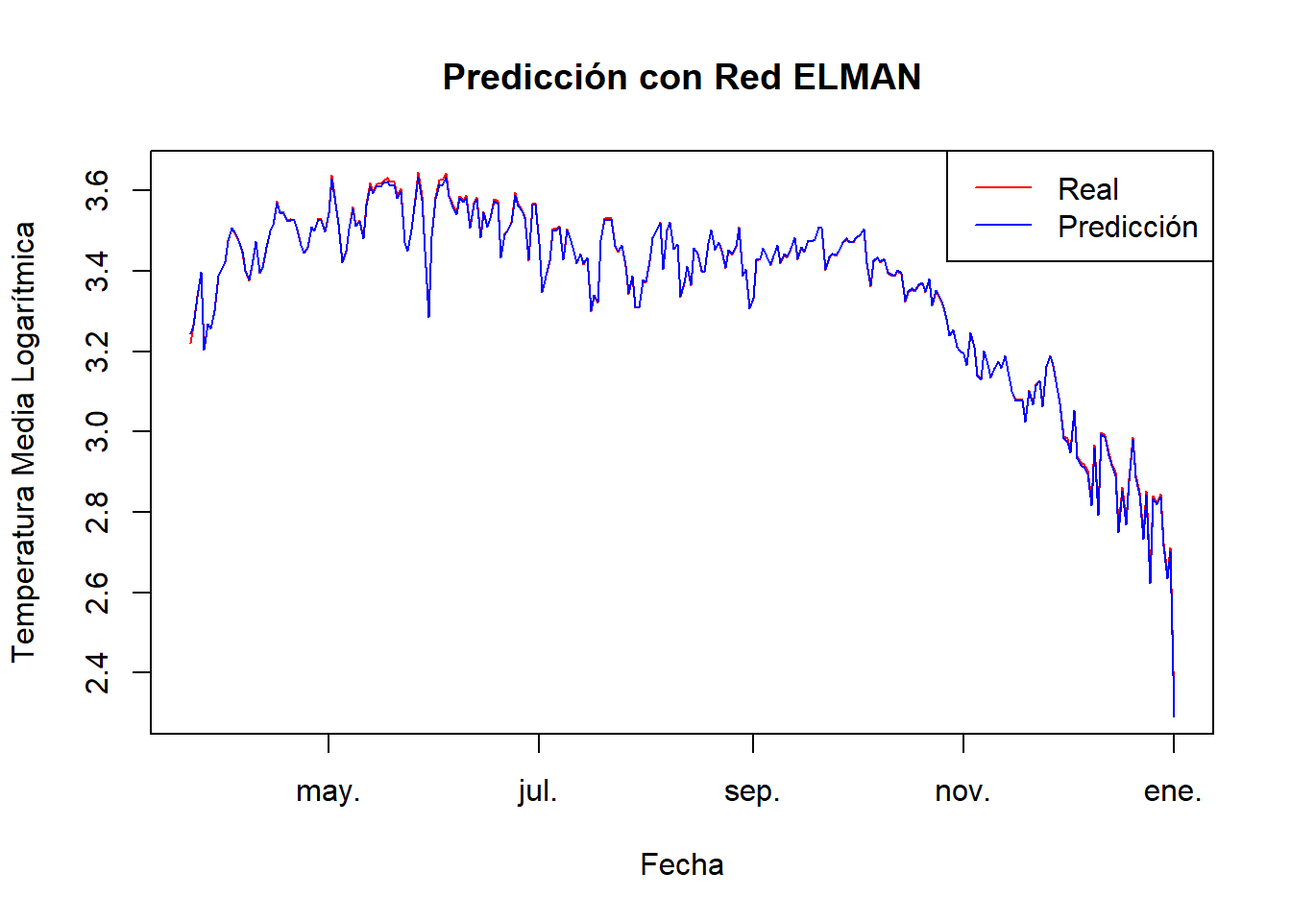
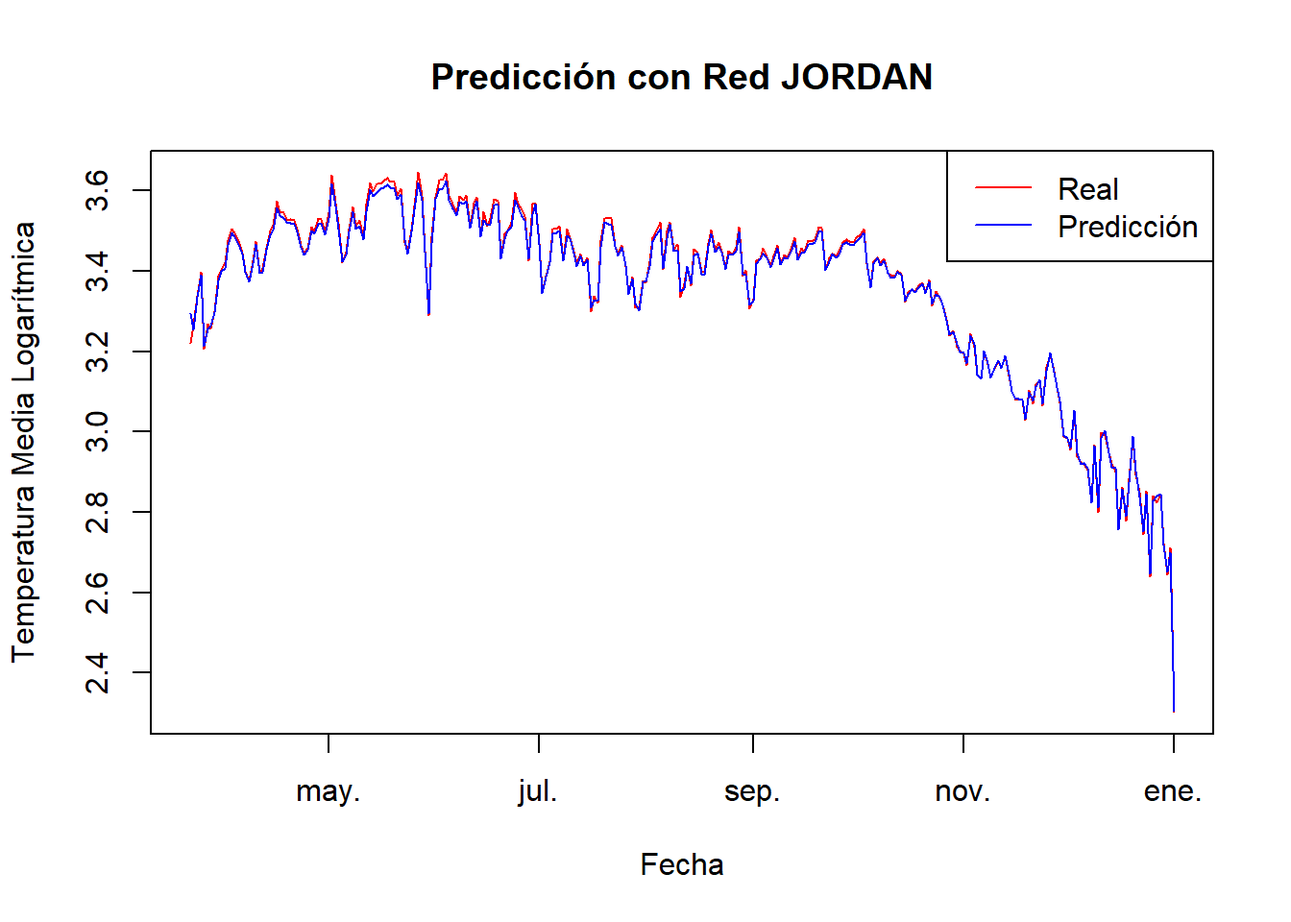
Final Final entrega

diff --git a/modulo-3.html b/modulo-3.html
@@ -178,7 +178,16 @@ code span.wa { color: #60a0b0; font-weight: bold; font-style: italic; } /* Warni
 </ul></li>
 <li class="chapter" data-level="8" data-path="modulo-3.html"><a href="modulo-3.html"><i class="fa fa-check"></i><b>8</b> Modulo 3</a>
 <ul>
-<li class="chapter" data-level="8.1" data-path="modulo-3.html"><a href="modulo-3.html#organización-datos"><i class="fa fa-check"></i><b>8.1</b> Organización datos</a></li>
+<li class="chapter" data-level="8.1" data-path="modulo-3.html"><a href="modulo-3.html#organizar-modelos"><i class="fa fa-check"></i><b>8.1</b> Organizar modelos</a></li>
+<li class="chapter" data-level="8.2" data-path="modulo-3.html"><a href="modulo-3.html#red-neuronal-elman"><i class="fa fa-check"></i><b>8.2</b> Red Neuronal Elman</a>
+<ul>
+<li class="chapter" data-level="8.2.1" data-path="modulo-3.html"><a href="modulo-3.html#análisis-de-los-gráficos-de-la-red-elman"><i class="fa fa-check"></i><b>8.2.1</b> Análisis de los Gráficos de la Red Elman</a></li>
+</ul></li>
+<li class="chapter" data-level="8.3" data-path="modulo-3.html"><a href="modulo-3.html#red-neuronal-jordan"><i class="fa fa-check"></i><b>8.3</b> Red Neuronal Jordan</a>
+<ul>
+<li class="chapter" data-level="8.3.1" data-path="modulo-3.html"><a href="modulo-3.html#análisis-de-los-gráficos-de-la-red-jordan"><i class="fa fa-check"></i><b>8.3.1</b> Análisis de los Gráficos de la Red Jordan</a></li>
+<li class="chapter" data-level="8.3.2" data-path="modulo-3.html"><a href="modulo-3.html#comparación-de-redes-elman-y-jordan"><i class="fa fa-check"></i><b>8.3.2</b> Comparación de Redes Elman y Jordan:</a></li>
+</ul></li>
 </ul></li>
 </ul>
 
@@ -199,8 +208,8 @@ code span.wa { color: #60a0b0; font-weight: bold; font-style: italic; } /* Warni
             <section class="normal" id="section-">
 <div id="modulo-3" class="section level1 hasAnchor" number="8">
 <h1><span class="header-section-number">Chapter 8</span> Modulo 3<a href="modulo-3.html#modulo-3" class="anchor-section" aria-label="Anchor link to header"></a></h1>
-<div id="organización-datos" class="section level2 hasAnchor" number="8.1">
-<h2><span class="header-section-number">8.1</span> Organización datos<a href="modulo-3.html#organización-datos" class="anchor-section" aria-label="Anchor link to header"></a></h2>
+<div id="organizar-modelos" class="section level2 hasAnchor" number="8.1">
+<h2><span class="header-section-number">8.1</span> Organizar modelos<a href="modulo-3.html#organizar-modelos" class="anchor-section" aria-label="Anchor link to header"></a></h2>
 <div class="sourceCode" id="cb78"><pre class="sourceCode r"><code class="sourceCode r"><span id="cb78-1"><a href="modulo-3.html#cb78-1" tabindex="-1"></a><span class="co"># Instalar y cargar librerías necesarias</span></span>
 <span id="cb78-2"><a href="modulo-3.html#cb78-2" tabindex="-1"></a><span class="cf">if</span> (<span class="sc">!</span><span class="fu">require</span>(RSNNS)) <span class="fu">install.packages</span>(<span class="st">&quot;RSNNS&quot;</span>, <span class="at">repos =</span> <span class="st">&quot;http://cran.us.r-project.org&quot;</span>)</span></code></pre></div>
 <pre><code>## Loading required package: RSNNS</code></pre>
@@ -238,59 +247,138 @@ code span.wa { color: #60a0b0; font-weight: bold; font-style: italic; } /* Warni
 <span id="cb81-31"><a href="modulo-3.html#cb81-31" tabindex="-1"></a>n_steps <span class="ot">&lt;-</span> <span class="dv">7</span></span>
 <span id="cb81-32"><a href="modulo-3.html#cb81-32" tabindex="-1"></a>input_train <span class="ot">&lt;-</span> <span class="fu">create_sequences</span>(train_data<span class="sc">$</span>scaled_log_meantemp, n_steps)</span>
 <span id="cb81-33"><a href="modulo-3.html#cb81-33" tabindex="-1"></a>output_train <span class="ot">&lt;-</span> train_data<span class="sc">$</span>scaled_log_meantemp[n_steps<span class="sc">:</span><span class="fu">length</span>(train_data<span class="sc">$</span>scaled_log_meantemp)]</span>
-<span id="cb81-34"><a href="modulo-3.html#cb81-34" tabindex="-1"></a>input_test <span class="ot">&lt;-</span> <span class="fu">create_sequences</span>(test_data<span class="sc">$</span>scaled_log_meantemp, n_steps)</span></code></pre></div>
-<div class="sourceCode" id="cb82"><pre class="sourceCode r"><code class="sourceCode r"><span id="cb82-1"><a href="modulo-3.html#cb82-1" tabindex="-1"></a><span class="co"># Función para entrenar, predecir y evaluar modelos</span></span>
-<span id="cb82-2"><a href="modulo-3.html#cb82-2" tabindex="-1"></a>train_predict_evaluate <span class="ot">&lt;-</span> <span class="cf">function</span>(model_type, input_train, output_train, input_test) {</span>
-<span id="cb82-3"><a href="modulo-3.html#cb82-3" tabindex="-1"></a>  <span class="fu">set.seed</span>(<span class="dv">123</span>)</span>
-<span id="cb82-4"><a href="modulo-3.html#cb82-4" tabindex="-1"></a>  <span class="cf">if</span> (model_type <span class="sc">==</span> <span class="st">&quot;elman&quot;</span>) {</span>
-<span id="cb82-5"><a href="modulo-3.html#cb82-5" tabindex="-1"></a>    model <span class="ot">&lt;-</span> <span class="fu">elman</span>(input_train, output_train, <span class="at">size =</span> <span class="fu">c</span>(<span class="dv">10</span>, <span class="dv">5</span>), <span class="at">learnFuncParams =</span> <span class="fu">c</span>(<span class="fl">0.1</span>), <span class="at">maxit =</span> <span class="dv">1000</span>, <span class="at">linOut =</span> <span class="cn">TRUE</span>)</span>
-<span id="cb82-6"><a href="modulo-3.html#cb82-6" tabindex="-1"></a>  } <span class="cf">else</span> <span class="cf">if</span> (model_type <span class="sc">==</span> <span class="st">&quot;jordan&quot;</span>) {</span>
-<span id="cb82-7"><a href="modulo-3.html#cb82-7" tabindex="-1"></a>    model <span class="ot">&lt;-</span> <span class="fu">jordan</span>(input_train, output_train, <span class="at">size =</span> <span class="dv">4</span>, <span class="at">learnFuncParams =</span> <span class="fu">c</span>(<span class="fl">0.01</span>), <span class="at">maxit =</span> <span class="dv">1000</span>, <span class="at">linOut =</span> <span class="cn">TRUE</span>)</span>
-<span id="cb82-8"><a href="modulo-3.html#cb82-8" tabindex="-1"></a>  }</span>
-<span id="cb82-9"><a href="modulo-3.html#cb82-9" tabindex="-1"></a>  </span>
-<span id="cb82-10"><a href="modulo-3.html#cb82-10" tabindex="-1"></a>  <span class="co"># Gráfico de convergencia del error</span></span>
-<span id="cb82-11"><a href="modulo-3.html#cb82-11" tabindex="-1"></a>  <span class="fu">plotIterativeError</span>(model)</span>
-<span id="cb82-12"><a href="modulo-3.html#cb82-12" tabindex="-1"></a>  </span>
-<span id="cb82-13"><a href="modulo-3.html#cb82-13" tabindex="-1"></a>  predictions <span class="ot">&lt;-</span> <span class="fu">predict</span>(model, input_test)</span>
-<span id="cb82-14"><a href="modulo-3.html#cb82-14" tabindex="-1"></a>  predictions <span class="ot">&lt;-</span> predictions <span class="sc">*</span> (max_value <span class="sc">-</span> min_value) <span class="sc">+</span> min_value</span>
-<span id="cb82-15"><a href="modulo-3.html#cb82-15" tabindex="-1"></a>  actual_values <span class="ot">&lt;-</span> test_data<span class="sc">$</span>log_meantemp[n_steps<span class="sc">:</span><span class="fu">length</span>(test_data<span class="sc">$</span>log_meantemp)]</span>
-<span id="cb82-16"><a href="modulo-3.html#cb82-16" tabindex="-1"></a>  </span>
-<span id="cb82-17"><a href="modulo-3.html#cb82-17" tabindex="-1"></a>  rmse <span class="ot">&lt;-</span> <span class="fu">sqrt</span>(<span class="fu">mean</span>((predictions <span class="sc">-</span> actual_values)<span class="sc">^</span><span class="dv">2</span>))</span>
-<span id="cb82-18"><a href="modulo-3.html#cb82-18" tabindex="-1"></a>  mae <span class="ot">&lt;-</span> <span class="fu">mean</span>(<span class="fu">abs</span>(predictions <span class="sc">-</span> actual_values))</span>
-<span id="cb82-19"><a href="modulo-3.html#cb82-19" tabindex="-1"></a>  mape <span class="ot">&lt;-</span> <span class="fu">mean</span>(<span class="fu">abs</span>((predictions <span class="sc">-</span> actual_values) <span class="sc">/</span> actual_values)) <span class="sc">*</span> <span class="dv">100</span></span>
-<span id="cb82-20"><a href="modulo-3.html#cb82-20" tabindex="-1"></a>  </span>
-<span id="cb82-21"><a href="modulo-3.html#cb82-21" tabindex="-1"></a>  <span class="fu">cat</span>(<span class="fu">toupper</span>(model_type), <span class="st">&quot;RMSE:&quot;</span>, rmse, <span class="st">&quot;</span><span class="sc">\n</span><span class="st">&quot;</span>)</span>
-<span id="cb82-22"><a href="modulo-3.html#cb82-22" tabindex="-1"></a>  <span class="fu">cat</span>(<span class="fu">toupper</span>(model_type), <span class="st">&quot;MAE:&quot;</span>, mae, <span class="st">&quot;</span><span class="sc">\n</span><span class="st">&quot;</span>)</span>
-<span id="cb82-23"><a href="modulo-3.html#cb82-23" tabindex="-1"></a>  <span class="fu">cat</span>(<span class="fu">toupper</span>(model_type), <span class="st">&quot;MAPE:&quot;</span>, mape, <span class="st">&quot;%</span><span class="sc">\n</span><span class="st">&quot;</span>)</span>
-<span id="cb82-24"><a href="modulo-3.html#cb82-24" tabindex="-1"></a>  </span>
-<span id="cb82-25"><a href="modulo-3.html#cb82-25" tabindex="-1"></a>  <span class="co"># Visualizar resultados</span></span>
-<span id="cb82-26"><a href="modulo-3.html#cb82-26" tabindex="-1"></a>  <span class="fu">plot</span>(test_data<span class="sc">$</span>date[n_steps<span class="sc">:</span><span class="fu">length</span>(test_data<span class="sc">$</span>date)], actual_values, <span class="at">type =</span> <span class="st">&quot;l&quot;</span>, <span class="at">col =</span> <span class="st">&quot;red&quot;</span>, </span>
-<span id="cb82-27"><a href="modulo-3.html#cb82-27" tabindex="-1"></a>       <span class="at">main =</span> <span class="fu">paste</span>(<span class="st">&quot;Predicción con Red&quot;</span>, <span class="fu">toupper</span>(model_type)), <span class="at">xlab =</span> <span class="st">&quot;Fecha&quot;</span>, <span class="at">ylab =</span> <span class="st">&quot;Temperatura Media Logarítmica&quot;</span>)</span>
-<span id="cb82-28"><a href="modulo-3.html#cb82-28" tabindex="-1"></a>  <span class="fu">lines</span>(test_data<span class="sc">$</span>date[n_steps<span class="sc">:</span><span class="fu">length</span>(test_data<span class="sc">$</span>date)], predictions, <span class="at">col =</span> <span class="st">&quot;blue&quot;</span>)</span>
-<span id="cb82-29"><a href="modulo-3.html#cb82-29" tabindex="-1"></a>  <span class="fu">legend</span>(<span class="st">&quot;topright&quot;</span>, <span class="at">legend =</span> <span class="fu">c</span>(<span class="st">&quot;Real&quot;</span>, <span class="st">&quot;Predicción&quot;</span>), <span class="at">col =</span> <span class="fu">c</span>(<span class="st">&quot;red&quot;</span>, <span class="st">&quot;blue&quot;</span>), <span class="at">lty =</span> <span class="dv">1</span>)</span>
-<span id="cb82-30"><a href="modulo-3.html#cb82-30" tabindex="-1"></a>  </span>
-<span id="cb82-31"><a href="modulo-3.html#cb82-31" tabindex="-1"></a>  <span class="co"># Gráfico de errores</span></span>
-<span id="cb82-32"><a href="modulo-3.html#cb82-32" tabindex="-1"></a>  errors <span class="ot">&lt;-</span> predictions <span class="sc">-</span> actual_values</span>
-<span id="cb82-33"><a href="modulo-3.html#cb82-33" tabindex="-1"></a>  <span class="fu">plot</span>(test_data<span class="sc">$</span>date[n_steps<span class="sc">:</span><span class="fu">length</span>(test_data<span class="sc">$</span>date)], errors, <span class="at">type =</span> <span class="st">&quot;l&quot;</span>, </span>
-<span id="cb82-34"><a href="modulo-3.html#cb82-34" tabindex="-1"></a>       <span class="at">main =</span> <span class="fu">paste</span>(<span class="st">&quot;Errores de predicción -&quot;</span>, <span class="fu">toupper</span>(model_type)), <span class="at">xlab =</span> <span class="st">&quot;Fecha&quot;</span>, <span class="at">ylab =</span> <span class="st">&quot;Error&quot;</span>)</span>
-<span id="cb82-35"><a href="modulo-3.html#cb82-35" tabindex="-1"></a>  <span class="fu">abline</span>(<span class="at">h =</span> <span class="dv">0</span>, <span class="at">col =</span> <span class="st">&quot;red&quot;</span>, <span class="at">lty =</span> <span class="dv">2</span>)</span>
-<span id="cb82-36"><a href="modulo-3.html#cb82-36" tabindex="-1"></a>  </span>
-<span id="cb82-37"><a href="modulo-3.html#cb82-37" tabindex="-1"></a>  <span class="fu">return</span>(model)</span>
-<span id="cb82-38"><a href="modulo-3.html#cb82-38" tabindex="-1"></a>}</span></code></pre></div>
-<p>RESUL</p>
-<div class="sourceCode" id="cb83"><pre class="sourceCode r"><code class="sourceCode r"><span id="cb83-1"><a href="modulo-3.html#cb83-1" tabindex="-1"></a><span class="co"># Ejecutar modelos</span></span>
-<span id="cb83-2"><a href="modulo-3.html#cb83-2" tabindex="-1"></a>elman_model <span class="ot">&lt;-</span> <span class="fu">train_predict_evaluate</span>(<span class="st">&quot;elman&quot;</span>, input_train, output_train, input_test)</span></code></pre></div>
-<p><img src="index_files/figure-html/unnamed-chunk-45-1.png" width="672" /></p>
+<span id="cb81-34"><a href="modulo-3.html#cb81-34" tabindex="-1"></a>input_test <span class="ot">&lt;-</span> <span class="fu">create_sequences</span>(test_data<span class="sc">$</span>scaled_log_meantemp, n_steps)</span>
+<span id="cb81-35"><a href="modulo-3.html#cb81-35" tabindex="-1"></a></span>
+<span id="cb81-36"><a href="modulo-3.html#cb81-36" tabindex="-1"></a><span class="co"># Función para entrenar, predecir y evaluar modelos</span></span>
+<span id="cb81-37"><a href="modulo-3.html#cb81-37" tabindex="-1"></a>train_predict_evaluate <span class="ot">&lt;-</span> <span class="cf">function</span>(model_type, input_train, output_train, input_test) {</span>
+<span id="cb81-38"><a href="modulo-3.html#cb81-38" tabindex="-1"></a>  <span class="fu">set.seed</span>(<span class="dv">123</span>)</span>
+<span id="cb81-39"><a href="modulo-3.html#cb81-39" tabindex="-1"></a>  <span class="cf">if</span> (model_type <span class="sc">==</span> <span class="st">&quot;elman&quot;</span>) {</span>
+<span id="cb81-40"><a href="modulo-3.html#cb81-40" tabindex="-1"></a>    model <span class="ot">&lt;-</span> <span class="fu">elman</span>(input_train, output_train, <span class="at">size =</span> <span class="fu">c</span>(<span class="dv">10</span>, <span class="dv">5</span>), <span class="at">learnFuncParams =</span> <span class="fu">c</span>(<span class="fl">0.1</span>), <span class="at">maxit =</span> <span class="dv">1000</span>, <span class="at">linOut =</span> <span class="cn">TRUE</span>)</span>
+<span id="cb81-41"><a href="modulo-3.html#cb81-41" tabindex="-1"></a>  } <span class="cf">else</span> <span class="cf">if</span> (model_type <span class="sc">==</span> <span class="st">&quot;jordan&quot;</span>) {</span>
+<span id="cb81-42"><a href="modulo-3.html#cb81-42" tabindex="-1"></a>    model <span class="ot">&lt;-</span> <span class="fu">jordan</span>(input_train, output_train, <span class="at">size =</span> <span class="dv">4</span>, <span class="at">learnFuncParams =</span> <span class="fu">c</span>(<span class="fl">0.01</span>), <span class="at">maxit =</span> <span class="dv">1000</span>, <span class="at">linOut =</span> <span class="cn">TRUE</span>)</span>
+<span id="cb81-43"><a href="modulo-3.html#cb81-43" tabindex="-1"></a>  }</span>
+<span id="cb81-44"><a href="modulo-3.html#cb81-44" tabindex="-1"></a>  </span>
+<span id="cb81-45"><a href="modulo-3.html#cb81-45" tabindex="-1"></a>  <span class="co"># Gráfico de convergencia del error</span></span>
+<span id="cb81-46"><a href="modulo-3.html#cb81-46" tabindex="-1"></a>  <span class="fu">plotIterativeError</span>(model)</span>
+<span id="cb81-47"><a href="modulo-3.html#cb81-47" tabindex="-1"></a>  </span>
+<span id="cb81-48"><a href="modulo-3.html#cb81-48" tabindex="-1"></a>  predictions <span class="ot">&lt;-</span> <span class="fu">predict</span>(model, input_test)</span>
+<span id="cb81-49"><a href="modulo-3.html#cb81-49" tabindex="-1"></a>  predictions <span class="ot">&lt;-</span> predictions <span class="sc">*</span> (max_value <span class="sc">-</span> min_value) <span class="sc">+</span> min_value</span>
+<span id="cb81-50"><a href="modulo-3.html#cb81-50" tabindex="-1"></a>  actual_values <span class="ot">&lt;-</span> test_data<span class="sc">$</span>log_meantemp[n_steps<span class="sc">:</span><span class="fu">length</span>(test_data<span class="sc">$</span>log_meantemp)]</span>
+<span id="cb81-51"><a href="modulo-3.html#cb81-51" tabindex="-1"></a>  </span>
+<span id="cb81-52"><a href="modulo-3.html#cb81-52" tabindex="-1"></a>  rmse <span class="ot">&lt;-</span> <span class="fu">sqrt</span>(<span class="fu">mean</span>((predictions <span class="sc">-</span> actual_values)<span class="sc">^</span><span class="dv">2</span>))</span>
+<span id="cb81-53"><a href="modulo-3.html#cb81-53" tabindex="-1"></a>  mae <span class="ot">&lt;-</span> <span class="fu">mean</span>(<span class="fu">abs</span>(predictions <span class="sc">-</span> actual_values))</span>
+<span id="cb81-54"><a href="modulo-3.html#cb81-54" tabindex="-1"></a>  mape <span class="ot">&lt;-</span> <span class="fu">mean</span>(<span class="fu">abs</span>((predictions <span class="sc">-</span> actual_values) <span class="sc">/</span> actual_values)) <span class="sc">*</span> <span class="dv">100</span></span>
+<span id="cb81-55"><a href="modulo-3.html#cb81-55" tabindex="-1"></a>  </span>
+<span id="cb81-56"><a href="modulo-3.html#cb81-56" tabindex="-1"></a>  <span class="fu">cat</span>(<span class="fu">toupper</span>(model_type), <span class="st">&quot;RMSE:&quot;</span>, rmse, <span class="st">&quot;</span><span class="sc">\n</span><span class="st">&quot;</span>)</span>
+<span id="cb81-57"><a href="modulo-3.html#cb81-57" tabindex="-1"></a>  <span class="fu">cat</span>(<span class="fu">toupper</span>(model_type), <span class="st">&quot;MAE:&quot;</span>, mae, <span class="st">&quot;</span><span class="sc">\n</span><span class="st">&quot;</span>)</span>
+<span id="cb81-58"><a href="modulo-3.html#cb81-58" tabindex="-1"></a>  <span class="fu">cat</span>(<span class="fu">toupper</span>(model_type), <span class="st">&quot;MAPE:&quot;</span>, mape, <span class="st">&quot;%</span><span class="sc">\n</span><span class="st">&quot;</span>)</span>
+<span id="cb81-59"><a href="modulo-3.html#cb81-59" tabindex="-1"></a>  </span>
+<span id="cb81-60"><a href="modulo-3.html#cb81-60" tabindex="-1"></a>  <span class="co"># Visualizar resultados</span></span>
+<span id="cb81-61"><a href="modulo-3.html#cb81-61" tabindex="-1"></a>  <span class="fu">plot</span>(test_data<span class="sc">$</span>date[n_steps<span class="sc">:</span><span class="fu">length</span>(test_data<span class="sc">$</span>date)], actual_values, <span class="at">type =</span> <span class="st">&quot;l&quot;</span>, <span class="at">col =</span> <span class="st">&quot;red&quot;</span>, </span>
+<span id="cb81-62"><a href="modulo-3.html#cb81-62" tabindex="-1"></a>       <span class="at">main =</span> <span class="fu">paste</span>(<span class="st">&quot;Predicción con Red&quot;</span>, <span class="fu">toupper</span>(model_type)), <span class="at">xlab =</span> <span class="st">&quot;Fecha&quot;</span>, <span class="at">ylab =</span> <span class="st">&quot;Temperatura Media Logarítmica&quot;</span>)</span>
+<span id="cb81-63"><a href="modulo-3.html#cb81-63" tabindex="-1"></a>  <span class="fu">lines</span>(test_data<span class="sc">$</span>date[n_steps<span class="sc">:</span><span class="fu">length</span>(test_data<span class="sc">$</span>date)], predictions, <span class="at">col =</span> <span class="st">&quot;blue&quot;</span>)</span>
+<span id="cb81-64"><a href="modulo-3.html#cb81-64" tabindex="-1"></a>  <span class="fu">legend</span>(<span class="st">&quot;topright&quot;</span>, <span class="at">legend =</span> <span class="fu">c</span>(<span class="st">&quot;Real&quot;</span>, <span class="st">&quot;Predicción&quot;</span>), <span class="at">col =</span> <span class="fu">c</span>(<span class="st">&quot;red&quot;</span>, <span class="st">&quot;blue&quot;</span>), <span class="at">lty =</span> <span class="dv">1</span>)</span>
+<span id="cb81-65"><a href="modulo-3.html#cb81-65" tabindex="-1"></a>  </span>
+<span id="cb81-66"><a href="modulo-3.html#cb81-66" tabindex="-1"></a>  <span class="co"># Gráfico de errores</span></span>
+<span id="cb81-67"><a href="modulo-3.html#cb81-67" tabindex="-1"></a>  errors <span class="ot">&lt;-</span> predictions <span class="sc">-</span> actual_values</span>
+<span id="cb81-68"><a href="modulo-3.html#cb81-68" tabindex="-1"></a>  <span class="fu">plot</span>(test_data<span class="sc">$</span>date[n_steps<span class="sc">:</span><span class="fu">length</span>(test_data<span class="sc">$</span>date)], errors, <span class="at">type =</span> <span class="st">&quot;l&quot;</span>, </span>
+<span id="cb81-69"><a href="modulo-3.html#cb81-69" tabindex="-1"></a>       <span class="at">main =</span> <span class="fu">paste</span>(<span class="st">&quot;Errores de predicción -&quot;</span>, <span class="fu">toupper</span>(model_type)), <span class="at">xlab =</span> <span class="st">&quot;Fecha&quot;</span>, <span class="at">ylab =</span> <span class="st">&quot;Error&quot;</span>)</span>
+<span id="cb81-70"><a href="modulo-3.html#cb81-70" tabindex="-1"></a>  <span class="fu">abline</span>(<span class="at">h =</span> <span class="dv">0</span>, <span class="at">col =</span> <span class="st">&quot;red&quot;</span>, <span class="at">lty =</span> <span class="dv">2</span>)</span>
+<span id="cb81-71"><a href="modulo-3.html#cb81-71" tabindex="-1"></a>  </span>
+<span id="cb81-72"><a href="modulo-3.html#cb81-72" tabindex="-1"></a>  <span class="fu">return</span>(model)</span>
+<span id="cb81-73"><a href="modulo-3.html#cb81-73" tabindex="-1"></a>}</span></code></pre></div>
+</div>
+<div id="red-neuronal-elman" class="section level2 hasAnchor" number="8.2">
+<h2><span class="header-section-number">8.2</span> Red Neuronal Elman<a href="modulo-3.html#red-neuronal-elman" class="anchor-section" aria-label="Anchor link to header"></a></h2>
+<div class="sourceCode" id="cb82"><pre class="sourceCode r"><code class="sourceCode r"><span id="cb82-1"><a href="modulo-3.html#cb82-1" tabindex="-1"></a>elman_model <span class="ot">&lt;-</span> <span class="fu">train_predict_evaluate</span>(<span class="st">&quot;elman&quot;</span>, input_train, output_train, input_test)</span></code></pre></div>
+<p><img src="index_files/figure-html/unnamed-chunk-44-1.png" width="672" /></p>
 <pre><code>## ELMAN RMSE: 0.004209174 
 ## ELMAN MAE: 0.00288991 
 ## ELMAN MAPE: 0.08955447 %</code></pre>
-<p><img src="index_files/figure-html/unnamed-chunk-45-2.png" width="672" /><img src="index_files/figure-html/unnamed-chunk-45-3.png" width="672" /></p>
-<div class="sourceCode" id="cb85"><pre class="sourceCode r"><code class="sourceCode r"><span id="cb85-1"><a href="modulo-3.html#cb85-1" tabindex="-1"></a>jordan_model <span class="ot">&lt;-</span> <span class="fu">train_predict_evaluate</span>(<span class="st">&quot;jordan&quot;</span>, input_train, output_train, input_test)</span></code></pre></div>
-<p><img src="index_files/figure-html/unnamed-chunk-45-4.png" width="672" /></p>
+<p><img src="index_files/figure-html/unnamed-chunk-44-2.png" width="672" /><img src="index_files/figure-html/unnamed-chunk-44-3.png" width="672" /></p>
+<div id="análisis-de-los-gráficos-de-la-red-elman" class="section level3 hasAnchor" number="8.2.1">
+<h3><span class="header-section-number">8.2.1</span> Análisis de los Gráficos de la Red Elman<a href="modulo-3.html#análisis-de-los-gráficos-de-la-red-elman" class="anchor-section" aria-label="Anchor link to header"></a></h3>
+<ul>
+<li><strong>Gráfico del Error Ponderado (SSE) a lo Largo de las Iteraciones:</strong></li>
+</ul>
+<p><strong>Descripción:</strong>
+Este gráfico muestra cómo se reduce el error ponderado (SSE, Sum of Squared Errors) durante las iteraciones de entrenamiento de la red Elman.</p>
+<p><strong>Observaciones:</strong>
+El error decrece rápidamente en las primeras iteraciones, lo que indica un aprendizaje rápido inicial.
+A partir de aproximadamente la iteración 200, la reducción del error se estabiliza, sugiriendo que el modelo ha alcanzado una convergencia.
+El gráfico muestra que la red Elman es capaz de minimizar el error de manera efectiva durante el entrenamiento.</p>
+<ul>
+<li><strong>Gráfico de Predicción con Red Elman:</strong></li>
+</ul>
+<p><strong>Descripción:</strong>
+Este gráfico compara las predicciones de la red Elman (línea azul) con los valores reales de la temperatura media logarítmica (línea roja) durante el período de prueba.</p>
+<p><strong>Observaciones:</strong>
+La red Elman sigue de cerca los valores reales, capturando adecuadamente la tendencia y la estacionalidad de los datos.
+Hay ligeras desviaciones en algunos picos y valles, pero en general, el ajuste es bastante preciso.
+La capacidad de la red Elman para capturar la dinámica temporal es evidente en la similitud entre las líneas de predicción y los valores reales.</p>
+<ul>
+<li><strong>Gráfico de Errores de Predicción - Elman:</strong></li>
+</ul>
+<p><strong>Descripción:</strong>
+Este gráfico muestra los errores de predicción (diferencia entre las predicciones y los valores reales) a lo largo del período de prueba.</p>
+<p><strong>Observaciones:</strong>
+Los errores se distribuyen alrededor de cero, lo que indica que no hay un sesgo sistemático en las predicciones.
+Los mayores errores se observan al principio del período de prueba, con una tendencia a estabilizarse en torno a cero conforme avanza el tiempo.
+La línea roja discontinua en el cero ayuda a visualizar la distribución de los errores, mostrando que los errores positivos y negativos se compensan entre sí.</p>
+</div>
+</div>
+<div id="red-neuronal-jordan" class="section level2 hasAnchor" number="8.3">
+<h2><span class="header-section-number">8.3</span> Red Neuronal Jordan<a href="modulo-3.html#red-neuronal-jordan" class="anchor-section" aria-label="Anchor link to header"></a></h2>
+<div class="sourceCode" id="cb84"><pre class="sourceCode r"><code class="sourceCode r"><span id="cb84-1"><a href="modulo-3.html#cb84-1" tabindex="-1"></a>jordan_model <span class="ot">&lt;-</span> <span class="fu">train_predict_evaluate</span>(<span class="st">&quot;jordan&quot;</span>, input_train, output_train, input_test)</span></code></pre></div>
+<p><img src="index_files/figure-html/unnamed-chunk-45-1.png" width="672" /></p>
 <pre><code>## JORDAN RMSE: 0.01002777 
 ## JORDAN MAE: 0.007558923 
 ## JORDAN MAPE: 0.2231786 %</code></pre>
-<p><img src="index_files/figure-html/unnamed-chunk-45-5.png" width="672" /><img src="index_files/figure-html/unnamed-chunk-45-6.png" width="672" /></p>
+<p><img src="index_files/figure-html/unnamed-chunk-45-2.png" width="672" /><img src="index_files/figure-html/unnamed-chunk-45-3.png" width="672" /></p>
+<div id="análisis-de-los-gráficos-de-la-red-jordan" class="section level3 hasAnchor" number="8.3.1">
+<h3><span class="header-section-number">8.3.1</span> Análisis de los Gráficos de la Red Jordan<a href="modulo-3.html#análisis-de-los-gráficos-de-la-red-jordan" class="anchor-section" aria-label="Anchor link to header"></a></h3>
+<ul>
+<li><strong>Gráfico del Error Ponderado (SSE) a lo Largo de las Iteraciones:</strong></li>
+</ul>
+<p><strong>Descripción:</strong>
+Similar al gráfico de la red Elman, este gráfico muestra cómo se reduce el error ponderado durante las iteraciones de entrenamiento de la red Jordan.</p>
+<p><strong>Observaciones:</strong>
+El error decrece rápidamente en las primeras iteraciones, indicando un buen proceso de aprendizaje inicial.
+La estabilización del error alrededor de la iteración 200 sugiere que el modelo ha alcanzado la convergencia.
+El modelo es eficaz en minimizar el error durante el entrenamiento, similar a la red Elman.</p>
+<ul>
+<li><strong>Gráfico de Predicción con Red Jordan:</strong></li>
+</ul>
+<p><strong>Descripción:</strong>
+Este gráfico compara las predicciones de la red Jordan (línea azul) con los valores reales de la temperatura media logarítmica (línea roja) durante el período de prueba.</p>
+<p><strong>Observaciones:</strong>
+La red Jordan también sigue de cerca los valores reales, capturando la tendencia y la estacionalidad.
+Las desviaciones en picos y valles son mínimas, mostrando una precisión comparativa a la red Elman.
+La red Jordan es igualmente competente en capturar la dinámica temporal de los datos.</p>
+<ul>
+<li><strong>Gráfico de Errores de Predicción - Jordan:</strong></li>
+</ul>
+<p><strong>Descripción:</strong>
+Este gráfico muestra los errores de predicción de la red Jordan a lo largo del período de prueba.</p>
+<p><strong>Observaciones:</strong>
+Los errores se distribuyen alrededor de cero, similar al comportamiento observado con la red Elman.
+La magnitud de los errores es mayor al inicio del período de prueba, estabilizándose conforme avanza el tiempo.
+La distribución de errores alrededor de la línea roja discontinua (cero) indica que no hay un sesgo sistemático en las predicciones.</p>
+</div>
+<div id="comparación-de-redes-elman-y-jordan" class="section level3 hasAnchor" number="8.3.2">
+<h3><span class="header-section-number">8.3.2</span> Comparación de Redes Elman y Jordan:<a href="modulo-3.html#comparación-de-redes-elman-y-jordan" class="anchor-section" aria-label="Anchor link to header"></a></h3>
+<p><strong>Convergencia y Entrenamiento:</strong></p>
+<p>Ambas redes muestran una rápida disminución del error durante las primeras iteraciones y convergen alrededor de la iteración 200.
+Ambas redes minimizan el error de manera efectiva durante el entrenamiento.</p>
+<p><strong>Precisión de Predicción:</strong></p>
+<p>Tanto la red Elman como la red Jordan capturan bien la tendencia y la estacionalidad de los datos.
+Las predicciones de ambas redes siguen de cerca los valores reales, con ligeras desviaciones en los picos y valles.</p>
+<p><strong>Errores de Predicción:</strong></p>
+<p>Los errores de predicción de ambas redes se distribuyen alrededor de cero, sin sesgo sistemático.
+Las mayores desviaciones ocurren al inicio del período de prueba, con una tendencia a estabilizarse.</p>
+<p><strong>Conclusión:</strong>
+Las redes Elman y Jordan son eficaces para la predicción de series temporales, mostrando una precisión y un comportamiento de errores similares. La elección entre una y otra puede depender de la especificidad del problema y las características de los datos.</p>
+</div>
 </div>
 </div>
             </section>

diff --git a/inicio.html b/inicio.html
@@ -178,7 +178,16 @@ code span.wa { color: #60a0b0; font-weight: bold; font-style: italic; } /* Warni
 </ul></li>
 <li class="chapter" data-level="8" data-path="modulo-3.html"><a href="modulo-3.html"><i class="fa fa-check"></i><b>8</b> Modulo 3</a>
 <ul>
-<li class="chapter" data-level="8.1" data-path="modulo-3.html"><a href="modulo-3.html#organización-datos"><i class="fa fa-check"></i><b>8.1</b> Organización datos</a></li>
+<li class="chapter" data-level="8.1" data-path="modulo-3.html"><a href="modulo-3.html#organizar-modelos"><i class="fa fa-check"></i><b>8.1</b> Organizar modelos</a></li>
+<li class="chapter" data-level="8.2" data-path="modulo-3.html"><a href="modulo-3.html#red-neuronal-elman"><i class="fa fa-check"></i><b>8.2</b> Red Neuronal Elman</a>
+<ul>
+<li class="chapter" data-level="8.2.1" data-path="modulo-3.html"><a href="modulo-3.html#análisis-de-los-gráficos-de-la-red-elman"><i class="fa fa-check"></i><b>8.2.1</b> Análisis de los Gráficos de la Red Elman</a></li>
+</ul></li>
+<li class="chapter" data-level="8.3" data-path="modulo-3.html"><a href="modulo-3.html#red-neuronal-jordan"><i class="fa fa-check"></i><b>8.3</b> Red Neuronal Jordan</a>
+<ul>
+<li class="chapter" data-level="8.3.1" data-path="modulo-3.html"><a href="modulo-3.html#análisis-de-los-gráficos-de-la-red-jordan"><i class="fa fa-check"></i><b>8.3.1</b> Análisis de los Gráficos de la Red Jordan</a></li>
+<li class="chapter" data-level="8.3.2" data-path="modulo-3.html"><a href="modulo-3.html#comparación-de-redes-elman-y-jordan"><i class="fa fa-check"></i><b>8.3.2</b> Comparación de Redes Elman y Jordan:</a></li>
+</ul></li>
 </ul></li>
 </ul>
 

diff --git a/modulo-1---unidad-1.html b/modulo-1---unidad-1.html
@@ -178,7 +178,16 @@ code span.wa { color: #60a0b0; font-weight: bold; font-style: italic; } /* Warni
 </ul></li>
 <li class="chapter" data-level="8" data-path="modulo-3.html"><a href="modulo-3.html"><i class="fa fa-check"></i><b>8</b> Modulo 3</a>
 <ul>
-<li class="chapter" data-level="8.1" data-path="modulo-3.html"><a href="modulo-3.html#organización-datos"><i class="fa fa-check"></i><b>8.1</b> Organización datos</a></li>
+<li class="chapter" data-level="8.1" data-path="modulo-3.html"><a href="modulo-3.html#organizar-modelos"><i class="fa fa-check"></i><b>8.1</b> Organizar modelos</a></li>
+<li class="chapter" data-level="8.2" data-path="modulo-3.html"><a href="modulo-3.html#red-neuronal-elman"><i class="fa fa-check"></i><b>8.2</b> Red Neuronal Elman</a>
+<ul>
+<li class="chapter" data-level="8.2.1" data-path="modulo-3.html"><a href="modulo-3.html#análisis-de-los-gráficos-de-la-red-elman"><i class="fa fa-check"></i><b>8.2.1</b> Análisis de los Gráficos de la Red Elman</a></li>
+</ul></li>
+<li class="chapter" data-level="8.3" data-path="modulo-3.html"><a href="modulo-3.html#red-neuronal-jordan"><i class="fa fa-check"></i><b>8.3</b> Red Neuronal Jordan</a>
+<ul>
+<li class="chapter" data-level="8.3.1" data-path="modulo-3.html"><a href="modulo-3.html#análisis-de-los-gráficos-de-la-red-jordan"><i class="fa fa-check"></i><b>8.3.1</b> Análisis de los Gráficos de la Red Jordan</a></li>
+<li class="chapter" data-level="8.3.2" data-path="modulo-3.html"><a href="modulo-3.html#comparación-de-redes-elman-y-jordan"><i class="fa fa-check"></i><b>8.3.2</b> Comparación de Redes Elman y Jordan:</a></li>
+</ul></li>
 </ul></li>
 </ul>
 

diff --git a/modulo-1---unidad-2.html b/modulo-1---unidad-2.html
@@ -178,7 +178,16 @@ code span.wa { color: #60a0b0; font-weight: bold; font-style: italic; } /* Warni
 </ul></li>
 <li class="chapter" data-level="8" data-path="modulo-3.html"><a href="modulo-3.html"><i class="fa fa-check"></i><b>8</b> Modulo 3</a>
 <ul>
-<li class="chapter" data-level="8.1" data-path="modulo-3.html"><a href="modulo-3.html#organización-datos"><i class="fa fa-check"></i><b>8.1</b> Organización datos</a></li>
+<li class="chapter" data-level="8.1" data-path="modulo-3.html"><a href="modulo-3.html#organizar-modelos"><i class="fa fa-check"></i><b>8.1</b> Organizar modelos</a></li>
+<li class="chapter" data-level="8.2" data-path="modulo-3.html"><a href="modulo-3.html#red-neuronal-elman"><i class="fa fa-check"></i><b>8.2</b> Red Neuronal Elman</a>
+<ul>
+<li class="chapter" data-level="8.2.1" data-path="modulo-3.html"><a href="modulo-3.html#análisis-de-los-gráficos-de-la-red-elman"><i class="fa fa-check"></i><b>8.2.1</b> Análisis de los Gráficos de la Red Elman</a></li>
+</ul></li>
+<li class="chapter" data-level="8.3" data-path="modulo-3.html"><a href="modulo-3.html#red-neuronal-jordan"><i class="fa fa-check"></i><b>8.3</b> Red Neuronal Jordan</a>
+<ul>
+<li class="chapter" data-level="8.3.1" data-path="modulo-3.html"><a href="modulo-3.html#análisis-de-los-gráficos-de-la-red-jordan"><i class="fa fa-check"></i><b>8.3.1</b> Análisis de los Gráficos de la Red Jordan</a></li>
+<li class="chapter" data-level="8.3.2" data-path="modulo-3.html"><a href="modulo-3.html#comparación-de-redes-elman-y-jordan"><i class="fa fa-check"></i><b>8.3.2</b> Comparación de Redes Elman y Jordan:</a></li>
+</ul></li>
 </ul></li>
 </ul>
 

diff --git a/modulo-1---unidad-3.html b/modulo-1---unidad-3.html
@@ -178,7 +178,16 @@ code span.wa { color: #60a0b0; font-weight: bold; font-style: italic; } /* Warni
 </ul></li>
 <li class="chapter" data-level="8" data-path="modulo-3.html"><a href="modulo-3.html"><i class="fa fa-check"></i><b>8</b> Modulo 3</a>
 <ul>
-<li class="chapter" data-level="8.1" data-path="modulo-3.html"><a href="modulo-3.html#organización-datos"><i class="fa fa-check"></i><b>8.1</b> Organización datos</a></li>
+<li class="chapter" data-level="8.1" data-path="modulo-3.html"><a href="modulo-3.html#organizar-modelos"><i class="fa fa-check"></i><b>8.1</b> Organizar modelos</a></li>
+<li class="chapter" data-level="8.2" data-path="modulo-3.html"><a href="modulo-3.html#red-neuronal-elman"><i class="fa fa-check"></i><b>8.2</b> Red Neuronal Elman</a>
+<ul>
+<li class="chapter" data-level="8.2.1" data-path="modulo-3.html"><a href="modulo-3.html#análisis-de-los-gráficos-de-la-red-elman"><i class="fa fa-check"></i><b>8.2.1</b> Análisis de los Gráficos de la Red Elman</a></li>
+</ul></li>
+<li class="chapter" data-level="8.3" data-path="modulo-3.html"><a href="modulo-3.html#red-neuronal-jordan"><i class="fa fa-check"></i><b>8.3</b> Red Neuronal Jordan</a>
+<ul>
+<li class="chapter" data-level="8.3.1" data-path="modulo-3.html"><a href="modulo-3.html#análisis-de-los-gráficos-de-la-red-jordan"><i class="fa fa-check"></i><b>8.3.1</b> Análisis de los Gráficos de la Red Jordan</a></li>
+<li class="chapter" data-level="8.3.2" data-path="modulo-3.html"><a href="modulo-3.html#comparación-de-redes-elman-y-jordan"><i class="fa fa-check"></i><b>8.3.2</b> Comparación de Redes Elman y Jordan:</a></li>
+</ul></li>
 </ul></li>
 </ul>
 

diff --git a/modulo-2---unidad-1.html b/modulo-2---unidad-1.html
@@ -178,7 +178,16 @@ code span.wa { color: #60a0b0; font-weight: bold; font-style: italic; } /* Warni
 </ul></li>
 <li class="chapter" data-level="8" data-path="modulo-3.html"><a href="modulo-3.html"><i class="fa fa-check"></i><b>8</b> Modulo 3</a>
 <ul>
-<li class="chapter" data-level="8.1" data-path="modulo-3.html"><a href="modulo-3.html#organización-datos"><i class="fa fa-check"></i><b>8.1</b> Organización datos</a></li>
+<li class="chapter" data-level="8.1" data-path="modulo-3.html"><a href="modulo-3.html#organizar-modelos"><i class="fa fa-check"></i><b>8.1</b> Organizar modelos</a></li>
+<li class="chapter" data-level="8.2" data-path="modulo-3.html"><a href="modulo-3.html#red-neuronal-elman"><i class="fa fa-check"></i><b>8.2</b> Red Neuronal Elman</a>
+<ul>
+<li class="chapter" data-level="8.2.1" data-path="modulo-3.html"><a href="modulo-3.html#análisis-de-los-gráficos-de-la-red-elman"><i class="fa fa-check"></i><b>8.2.1</b> Análisis de los Gráficos de la Red Elman</a></li>
+</ul></li>
+<li class="chapter" data-level="8.3" data-path="modulo-3.html"><a href="modulo-3.html#red-neuronal-jordan"><i class="fa fa-check"></i><b>8.3</b> Red Neuronal Jordan</a>
+<ul>
+<li class="chapter" data-level="8.3.1" data-path="modulo-3.html"><a href="modulo-3.html#análisis-de-los-gráficos-de-la-red-jordan"><i class="fa fa-check"></i><b>8.3.1</b> Análisis de los Gráficos de la Red Jordan</a></li>
+<li class="chapter" data-level="8.3.2" data-path="modulo-3.html"><a href="modulo-3.html#comparación-de-redes-elman-y-jordan"><i class="fa fa-check"></i><b>8.3.2</b> Comparación de Redes Elman y Jordan:</a></li>
+</ul></li>
 </ul></li>
 </ul>
 

diff --git a/modulo-2---unidad-2.html b/modulo-2---unidad-2.html
@@ -178,7 +178,16 @@ code span.wa { color: #60a0b0; font-weight: bold; font-style: italic; } /* Warni
 </ul></li>
 <li class="chapter" data-level="8" data-path="modulo-3.html"><a href="modulo-3.html"><i class="fa fa-check"></i><b>8</b> Modulo 3</a>
 <ul>
-<li class="chapter" data-level="8.1" data-path="modulo-3.html"><a href="modulo-3.html#organización-datos"><i class="fa fa-check"></i><b>8.1</b> Organización datos</a></li>
+<li class="chapter" data-level="8.1" data-path="modulo-3.html"><a href="modulo-3.html#organizar-modelos"><i class="fa fa-check"></i><b>8.1</b> Organizar modelos</a></li>
+<li class="chapter" data-level="8.2" data-path="modulo-3.html"><a href="modulo-3.html#red-neuronal-elman"><i class="fa fa-check"></i><b>8.2</b> Red Neuronal Elman</a>
+<ul>
+<li class="chapter" data-level="8.2.1" data-path="modulo-3.html"><a href="modulo-3.html#análisis-de-los-gráficos-de-la-red-elman"><i class="fa fa-check"></i><b>8.2.1</b> Análisis de los Gráficos de la Red Elman</a></li>
+</ul></li>
+<li class="chapter" data-level="8.3" data-path="modulo-3.html"><a href="modulo-3.html#red-neuronal-jordan"><i class="fa fa-check"></i><b>8.3</b> Red Neuronal Jordan</a>
+<ul>
+<li class="chapter" data-level="8.3.1" data-path="modulo-3.html"><a href="modulo-3.html#análisis-de-los-gráficos-de-la-red-jordan"><i class="fa fa-check"></i><b>8.3.1</b> Análisis de los Gráficos de la Red Jordan</a></li>
+<li class="chapter" data-level="8.3.2" data-path="modulo-3.html"><a href="modulo-3.html#comparación-de-redes-elman-y-jordan"><i class="fa fa-check"></i><b>8.3.2</b> Comparación de Redes Elman y Jordan:</a></li>
+</ul></li>
 </ul></li>
 </ul>
 

diff --git a/modulo-2---unidad-3.html b/modulo-2---unidad-3.html
@@ -178,7 +178,16 @@ code span.wa { color: #60a0b0; font-weight: bold; font-style: italic; } /* Warni
 </ul></li>
 <li class="chapter" data-level="8" data-path="modulo-3.html"><a href="modulo-3.html"><i class="fa fa-check"></i><b>8</b> Modulo 3</a>
 <ul>
-<li class="chapter" data-level="8.1" data-path="modulo-3.html"><a href="modulo-3.html#organización-datos"><i class="fa fa-check"></i><b>8.1</b> Organización datos</a></li>
+<li class="chapter" data-level="8.1" data-path="modulo-3.html"><a href="modulo-3.html#organizar-modelos"><i class="fa fa-check"></i><b>8.1</b> Organizar modelos</a></li>
+<li class="chapter" data-level="8.2" data-path="modulo-3.html"><a href="modulo-3.html#red-neuronal-elman"><i class="fa fa-check"></i><b>8.2</b> Red Neuronal Elman</a>
+<ul>
+<li class="chapter" data-level="8.2.1" data-path="modulo-3.html"><a href="modulo-3.html#análisis-de-los-gráficos-de-la-red-elman"><i class="fa fa-check"></i><b>8.2.1</b> Análisis de los Gráficos de la Red Elman</a></li>
+</ul></li>
+<li class="chapter" data-level="8.3" data-path="modulo-3.html"><a href="modulo-3.html#red-neuronal-jordan"><i class="fa fa-check"></i><b>8.3</b> Red Neuronal Jordan</a>
+<ul>
+<li class="chapter" data-level="8.3.1" data-path="modulo-3.html"><a href="modulo-3.html#análisis-de-los-gráficos-de-la-red-jordan"><i class="fa fa-check"></i><b>8.3.1</b> Análisis de los Gráficos de la Red Jordan</a></li>
+<li class="chapter" data-level="8.3.2" data-path="modulo-3.html"><a href="modulo-3.html#comparación-de-redes-elman-y-jordan"><i class="fa fa-check"></i><b>8.3.2</b> Comparación de Redes Elman y Jordan:</a></li>
+</ul></li>
 </ul></li>
 </ul>
 
